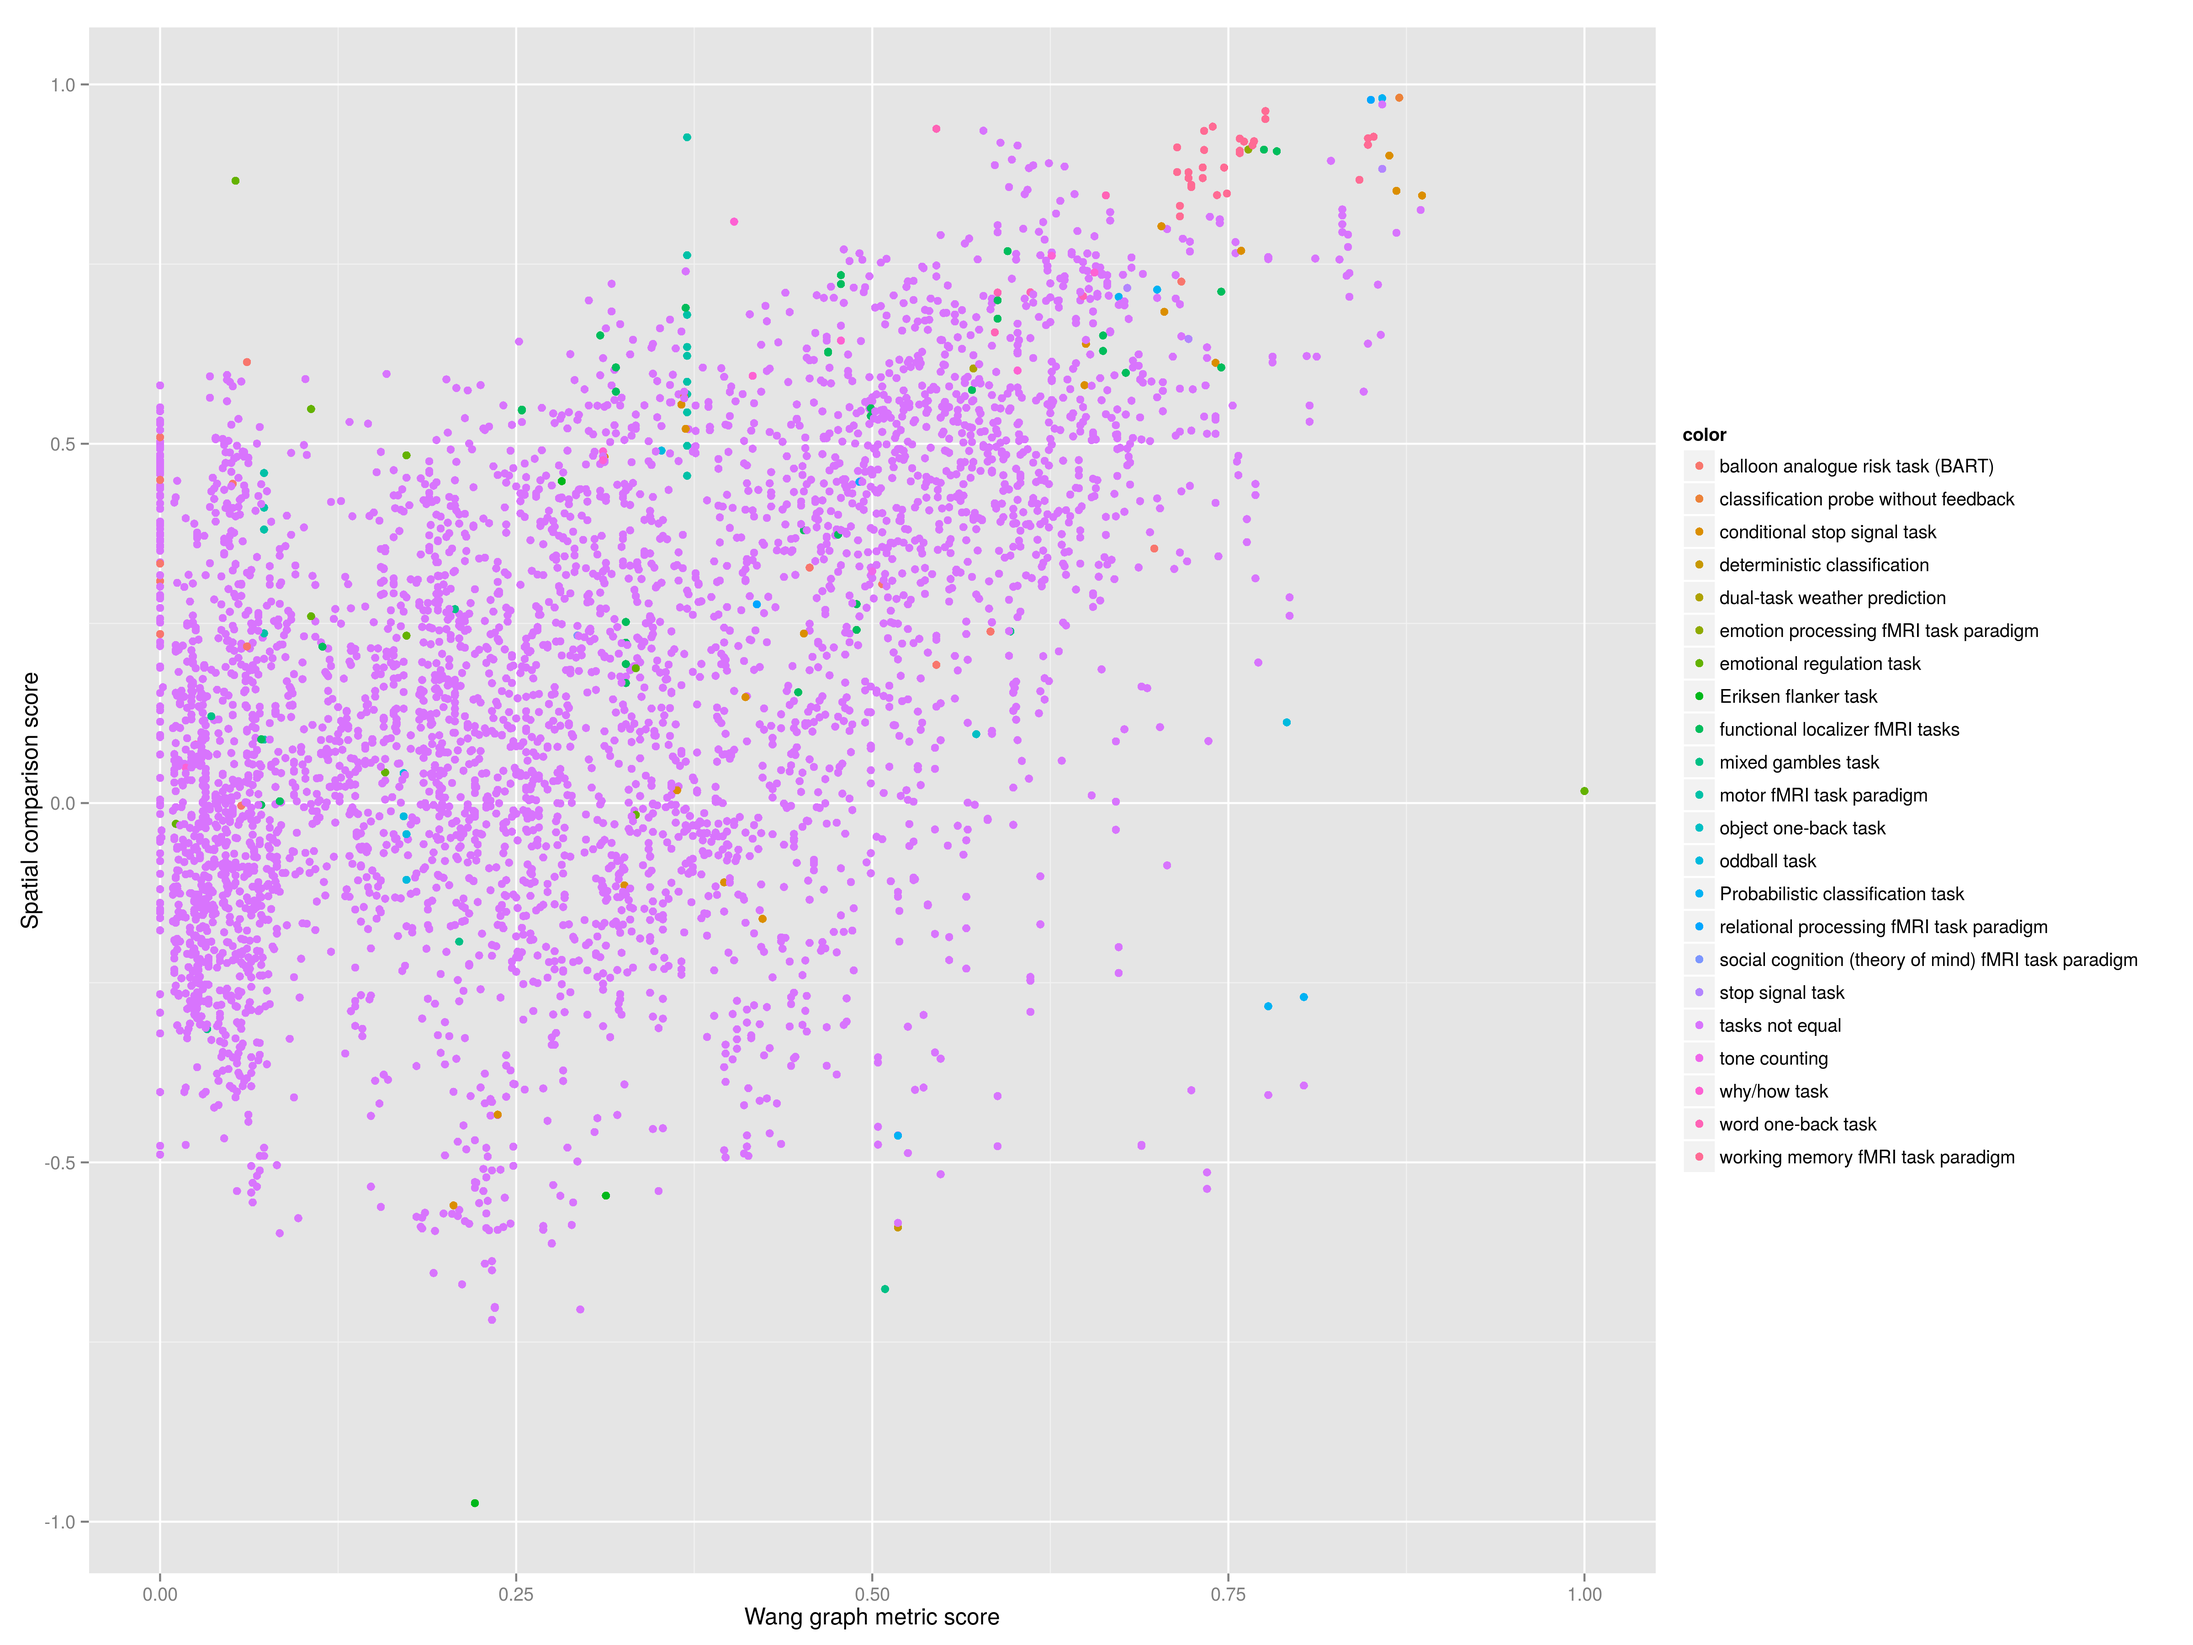
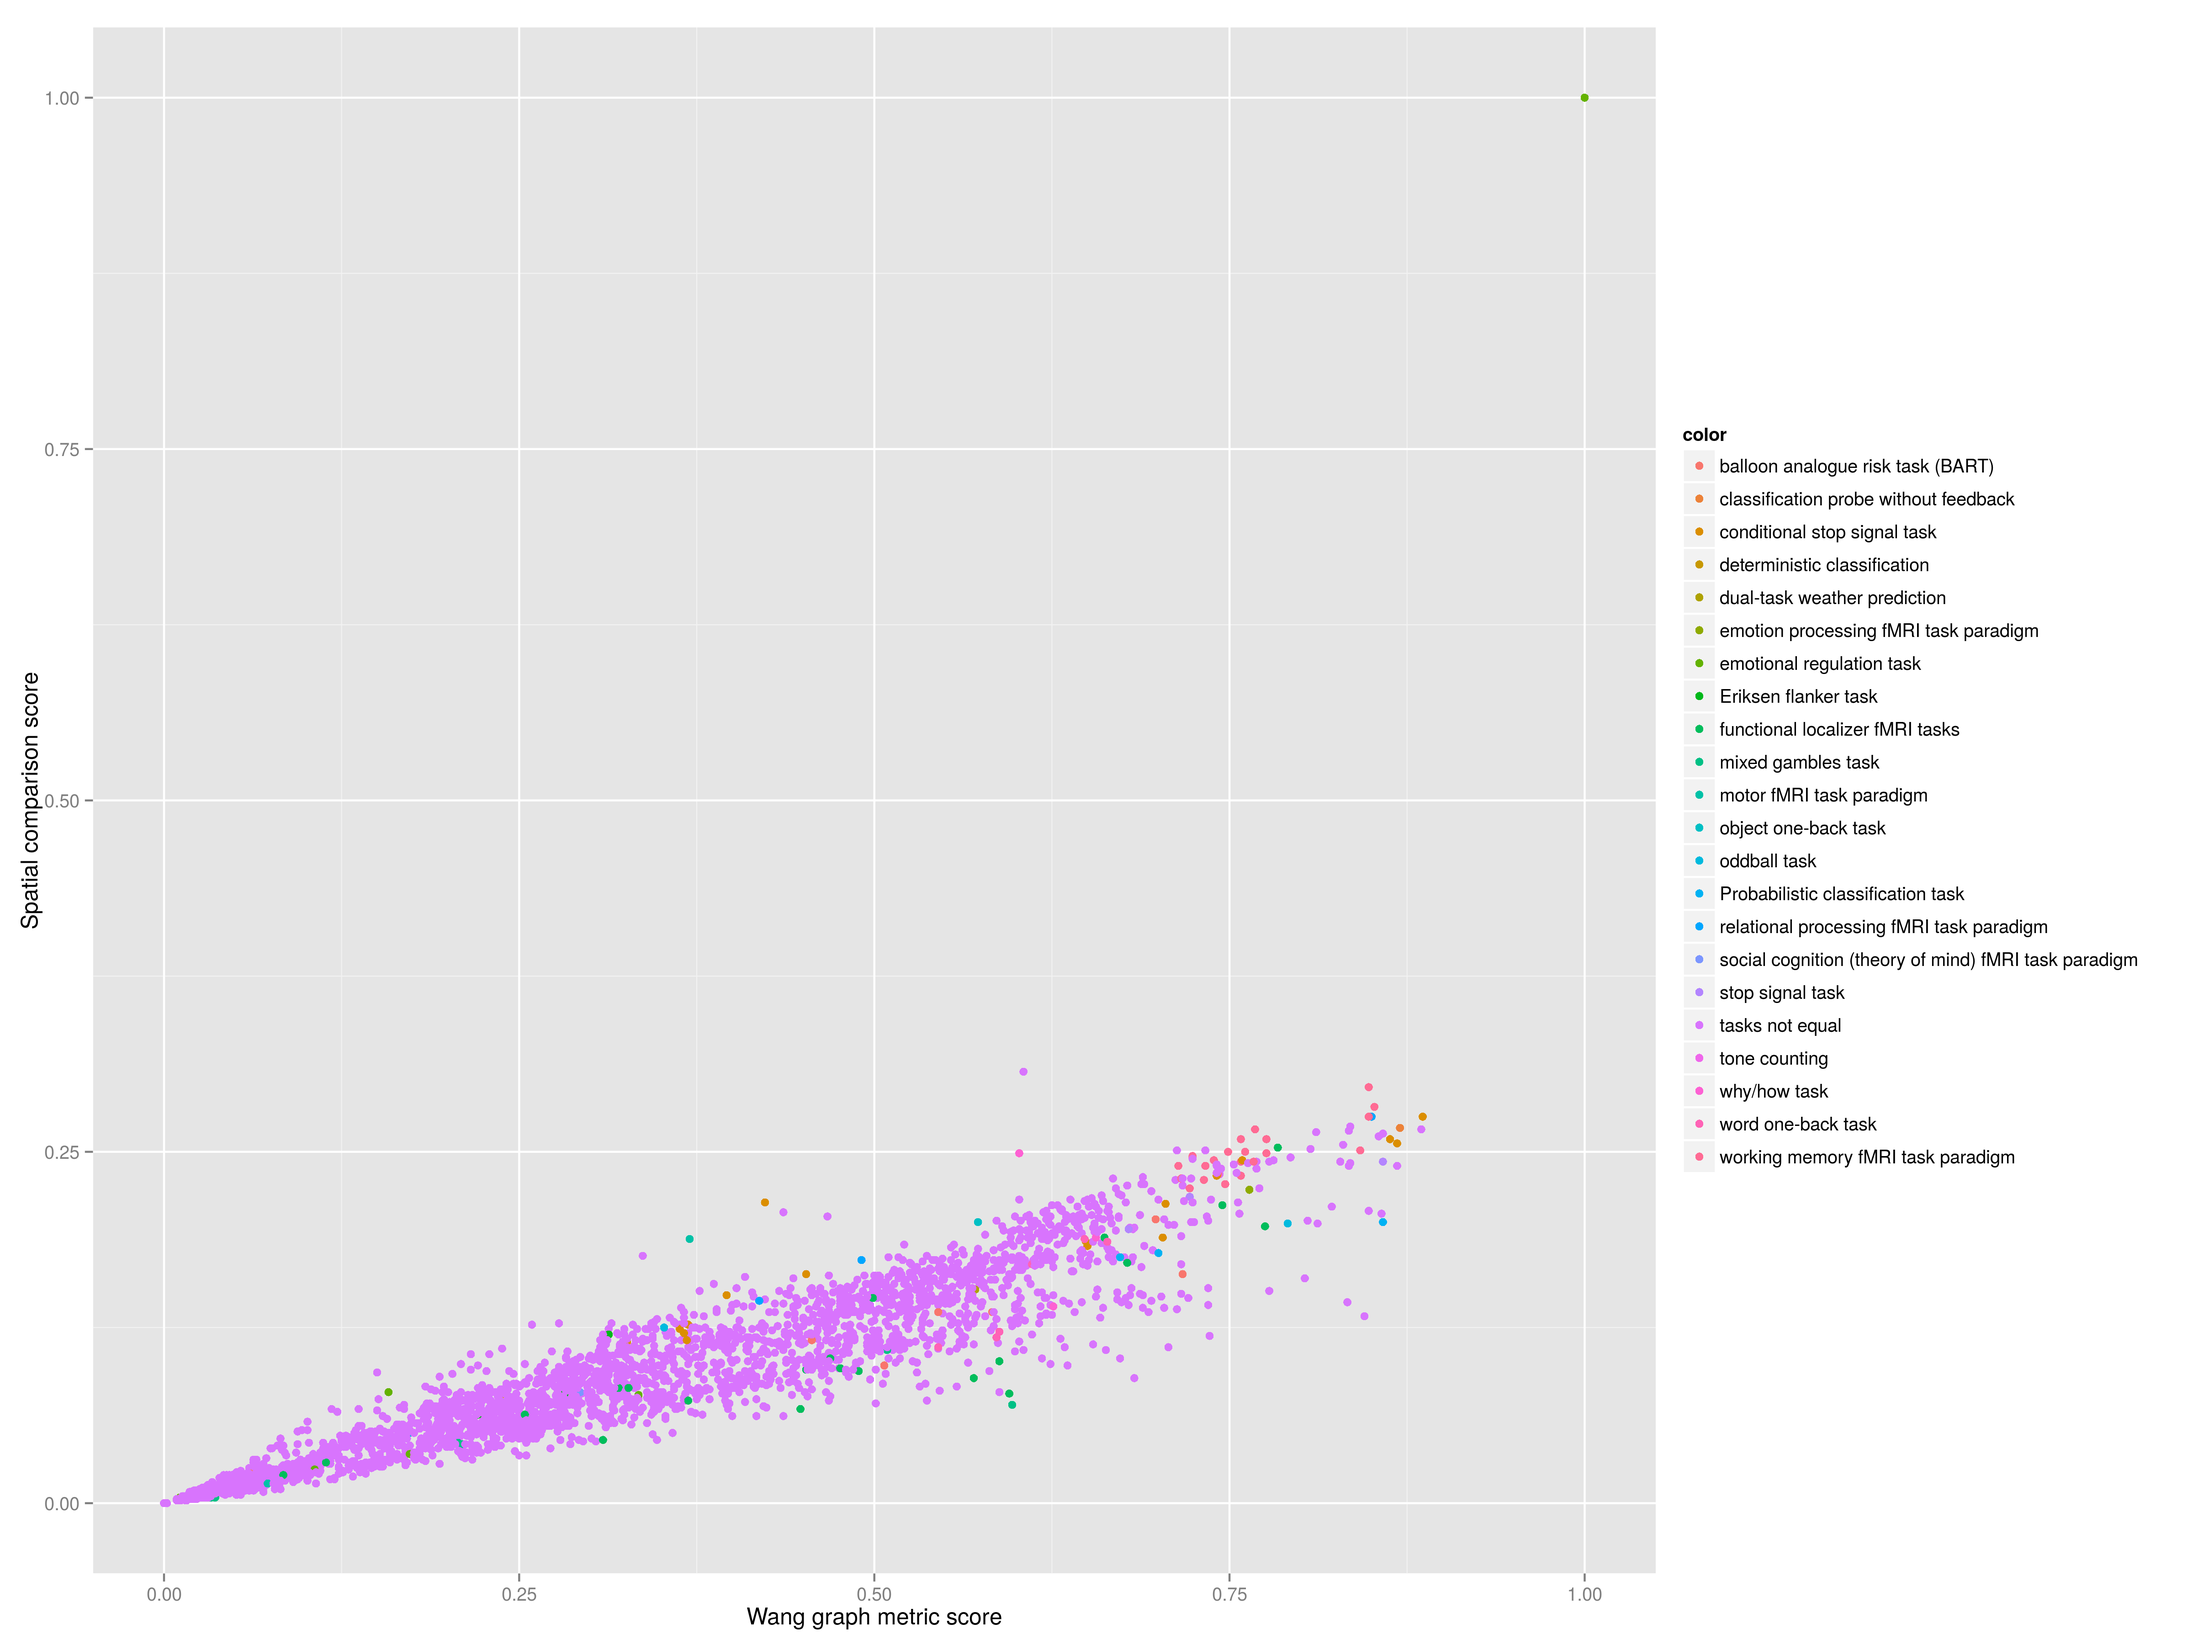
adding data and new analysis to compare wang changes

diff --git a/analysis/wang/2.wang_version_comparison.py b/analysis/wang/2.wang_version_comparison.py
@@ -1,0 +1,37 @@
+# RSA ANALYSIS ################################################################################
+# We can assess differences between image comparison calculated with spatial vs. semantic similarity
+
+import pandas
+import numpy
+from scipy.stats import pearsonr
+
+def read_wang(file_path):
+    version1 = pandas.read_csv(file_path,sep=",",index_col=0)
+    version1.columns = [int(x) for x in version1.columns]
+    return version1
+
+# Read in wang versions 1 and 2
+version1 = read_wang("data/contrast_defined_images_wang.tsv")
+version2 = read_wang("data/contrast_defined_images_wang_v2.tsv")
+images = pandas.read_csv("data/contrast_defined_images_filtered.tsv",sep="\t")
+
+# These should be empty results
+[x for x in range(version1.shape[0]) if version1.index[x] != version2.index[x]]
+[x for x in range(version1.shape[1]) if version1.columns[x] != version2.columns[x]]
+
+# Function for RSA analysis of two matrices
+def rsa(spatial,graph):
+    # This will take the diagonal of each matrix (and the other half is changed to nan) and flatten to vector
+    vector_spatial = spatial.mask(numpy.triu(numpy.ones(spatial.shape)).astype(numpy.bool)).values.flatten()
+    vector_graph = graph.mask(numpy.triu(numpy.ones(graph.shape)).astype(numpy.bool)).values.flatten()
+    # Now remove the nans
+    vector_spatial_defined = numpy.where(~numpy.isnan(vector_spatial))[0]
+    vector_graph_defined = numpy.where(~numpy.isnan(vector_graph))[0]
+    idx = numpy.intersect1d(vector_spatial_defined,vector_graph_defined)
+    return pearsonr(vector_spatial[idx],vector_graph[idx])[0]
+
+rsas = dict()
+
+# Perform RSA between two matrices
+rsa_value = rsa(version1,version2)
+#  0.93464445530745577
